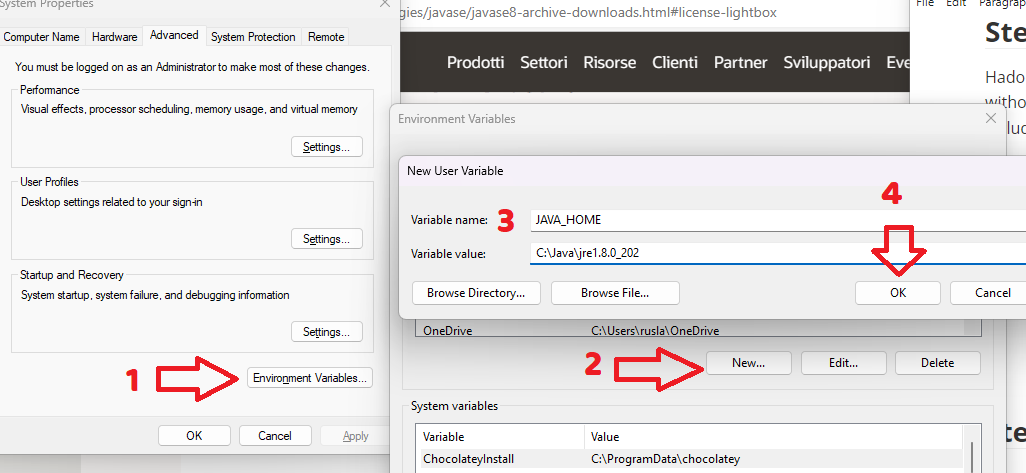
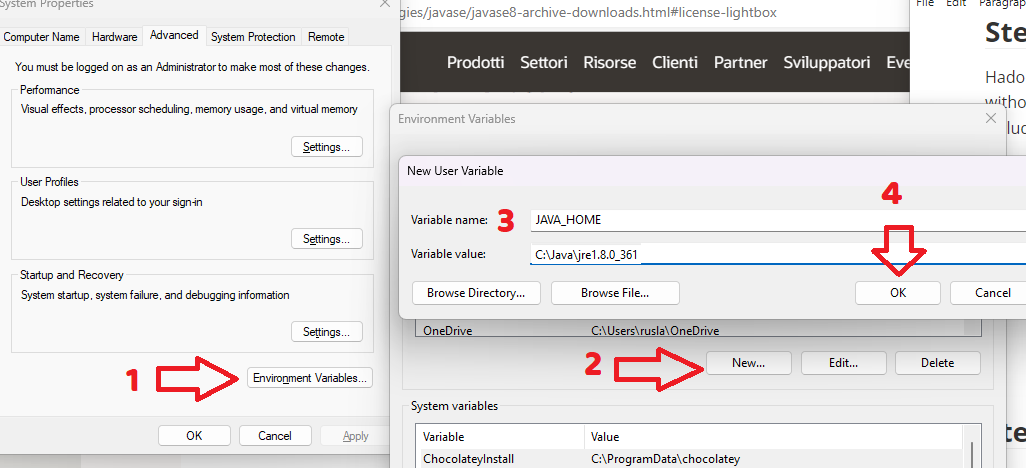
updates

diff --git a/README.md b/README.md
@@ -50,13 +50,8 @@ After the unzip command is completed we have to install the Java.
 
 Java is required to run Hadoop. If you have not installed Java , please install it.
 
-You can install Java 8 from the following page:
-
-https://www.oracle.com/it/java/technologies/javase/javase8-archive-downloads.html#license-lightbox
-or simmple by donwloading 
+You can install Java 8 from the following page [here](https://www.oracle.com/it/java/technologies/javase/javase8-archive-downloads.html#license-lightbox). I am choosing the Java **SE Runtime Environment** and I choose the Windows X64 version by 
 https://javadl.oracle.com/webapps/download/AutoDL?BundleId=247948_0ae14417abb444ebb02b9815e2103550
-
-I am choosing the Java **SE Runtime Environment 8u202** and I choose the Windows X64 version **jre-8u202-windows-x64.tar**
 
 After finishing the file download we open a new command prompt, we should unpack the package
 
@@ -79,7 +74,7 @@ the Java version that
 then run the following command to unzip:
 
 ```
-tar -xvzf  jre-8u202-windows-x64.tar.gz -C C:\Java\
+tar -xvzf  jre-8u361-windows-x64.tar.gz -C C:\Java\
 ```
 
 
@@ -132,7 +127,7 @@ by adding new  environment variable
 
 
 Variable name : `JAVA_HOME`
-Variable value:  `C:\Java\jre1.8.0_202`
+Variable value:  `C:\Java\jre1.8.0_361`
 
 
 
@@ -181,9 +176,9 @@ java -version
 you will have 
 
 ```
-java version "1.8.0_291"
-Java(TM) SE Runtime Environment (build 1.8.0_291-b10)
-Java HotSpot(TM) Client VM (build 25.291-b10, mixed mode, sharing)
+java version "1.8.0_361"
+Java(TM) SE Runtime Environment (build 1.8.0_361-b09)
+Java HotSpot(TM) 64-Bit Server VM (build 25.361-b09, mixed mode)
 ```
 
 You should also be able to run the following command:
@@ -193,13 +188,16 @@ hadoop -version
 ```
 
 ```
-java version "1.8.0_202"
-Java(TM) SE Runtime Environment (build 1.8.0_202-b08)
-Java HotSpot(TM) 64-Bit Server VM (build 25.202-b08, mixed mode)
-
+java version "1.8.0_361"
+Java(TM) SE Runtime Environment (build 1.8.0_361-b09)
+Java HotSpot(TM) 64-Bit Server VM (build 25.361-b09, mixed mode)
 ```
 
-and finally directly to verify that our above steps are completed successfully:
+
+
+Please verify that both versions of hadoop java and java coincide.
+
+Finally directly to verify that our above steps are completed successfully:
 
 ```
 winutils.exe 
@@ -332,6 +330,12 @@ Run the following command to start HDFS daemons in Command Prompt:
 %HADOOP_HOME%\sbin\start-dfs.cmd
 ```
 
+Please click Allow access to the java.
+
+![image-20230507142854582](assets/images/posts/README/image-20230507142854582.png)
+
+
+
 Two Command Prompt windows will open: one for datanode and another for namenode as the following screenshot shows:
 
 ![image-20230507134058063](assets/images/posts/README/image-20230507134058063.png)
@@ -357,8 +361,11 @@ Run the following command in an elevated Command Prompt window (Run as administr
 
 Similarly two Command Prompt windows will open: one for resource manager and another for node manager as the following screenshot shows:
 
+![](assets/images/posts/README/image-202305071341485061.png)
+
 
 You can verify YARN resource manager UI when all services are started successfully. 
 
 http://localhost:8088
 
+![](assets/images/posts/README/image-20230508.jpg)
